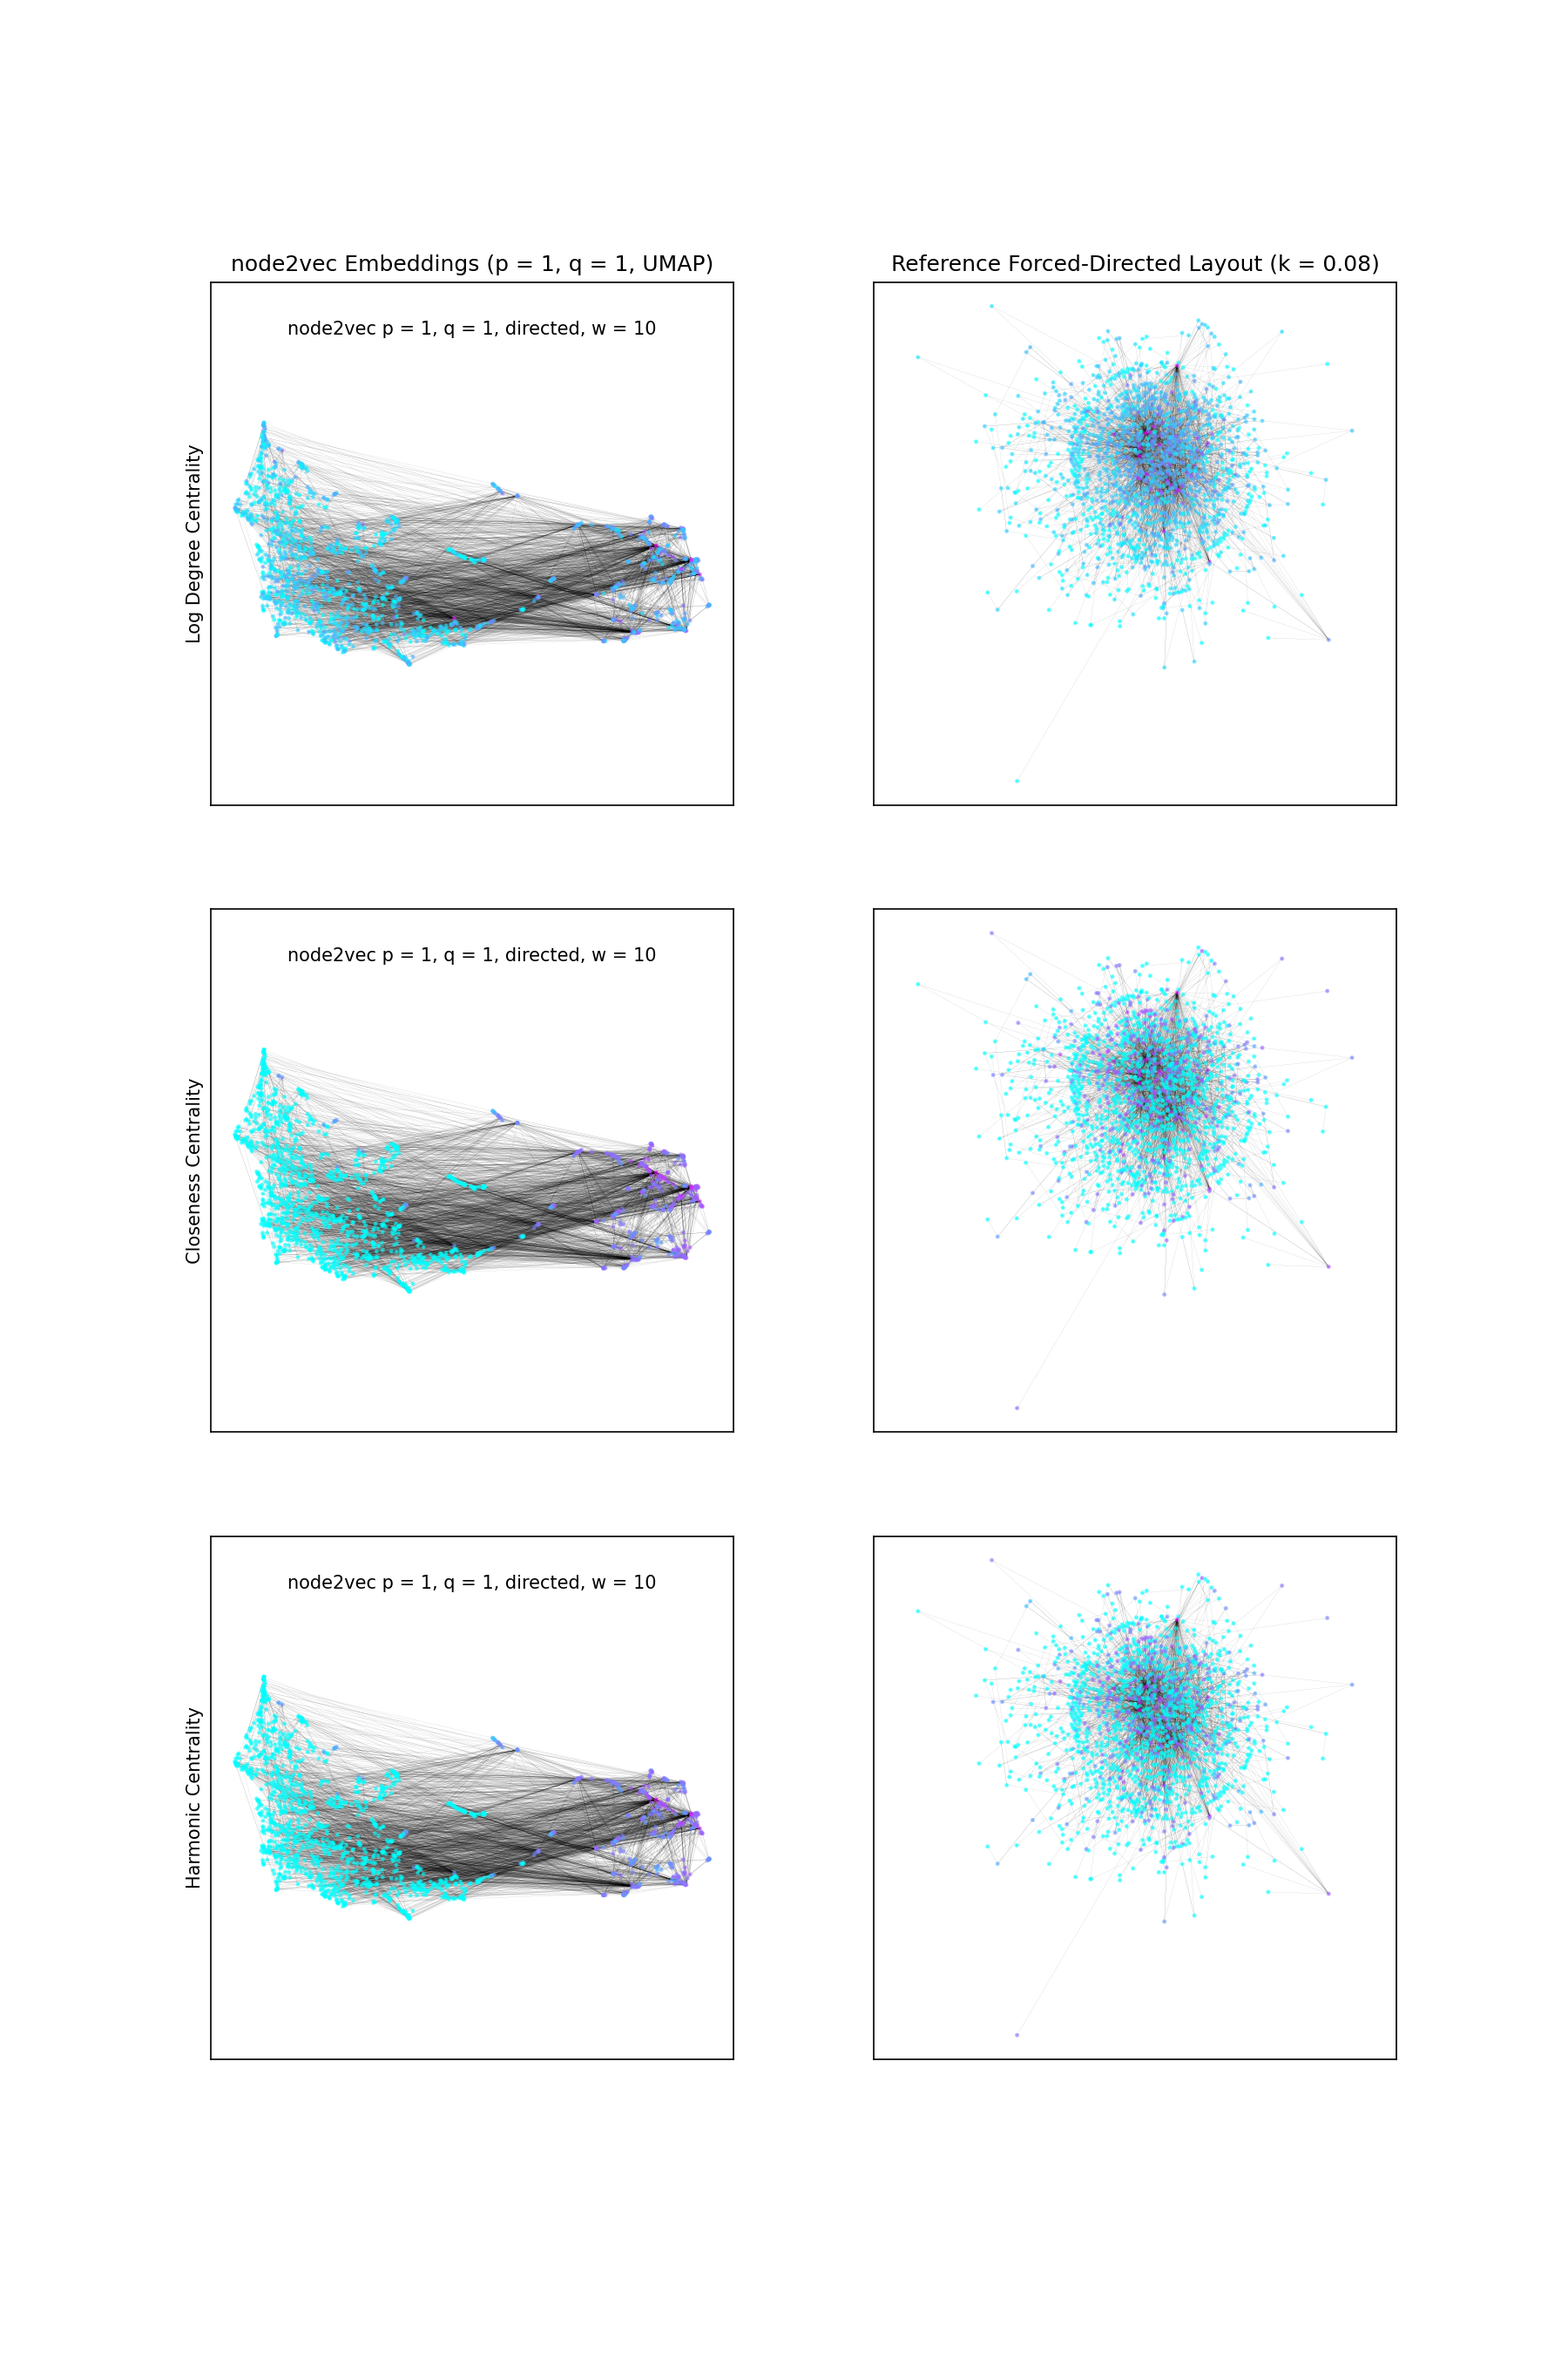
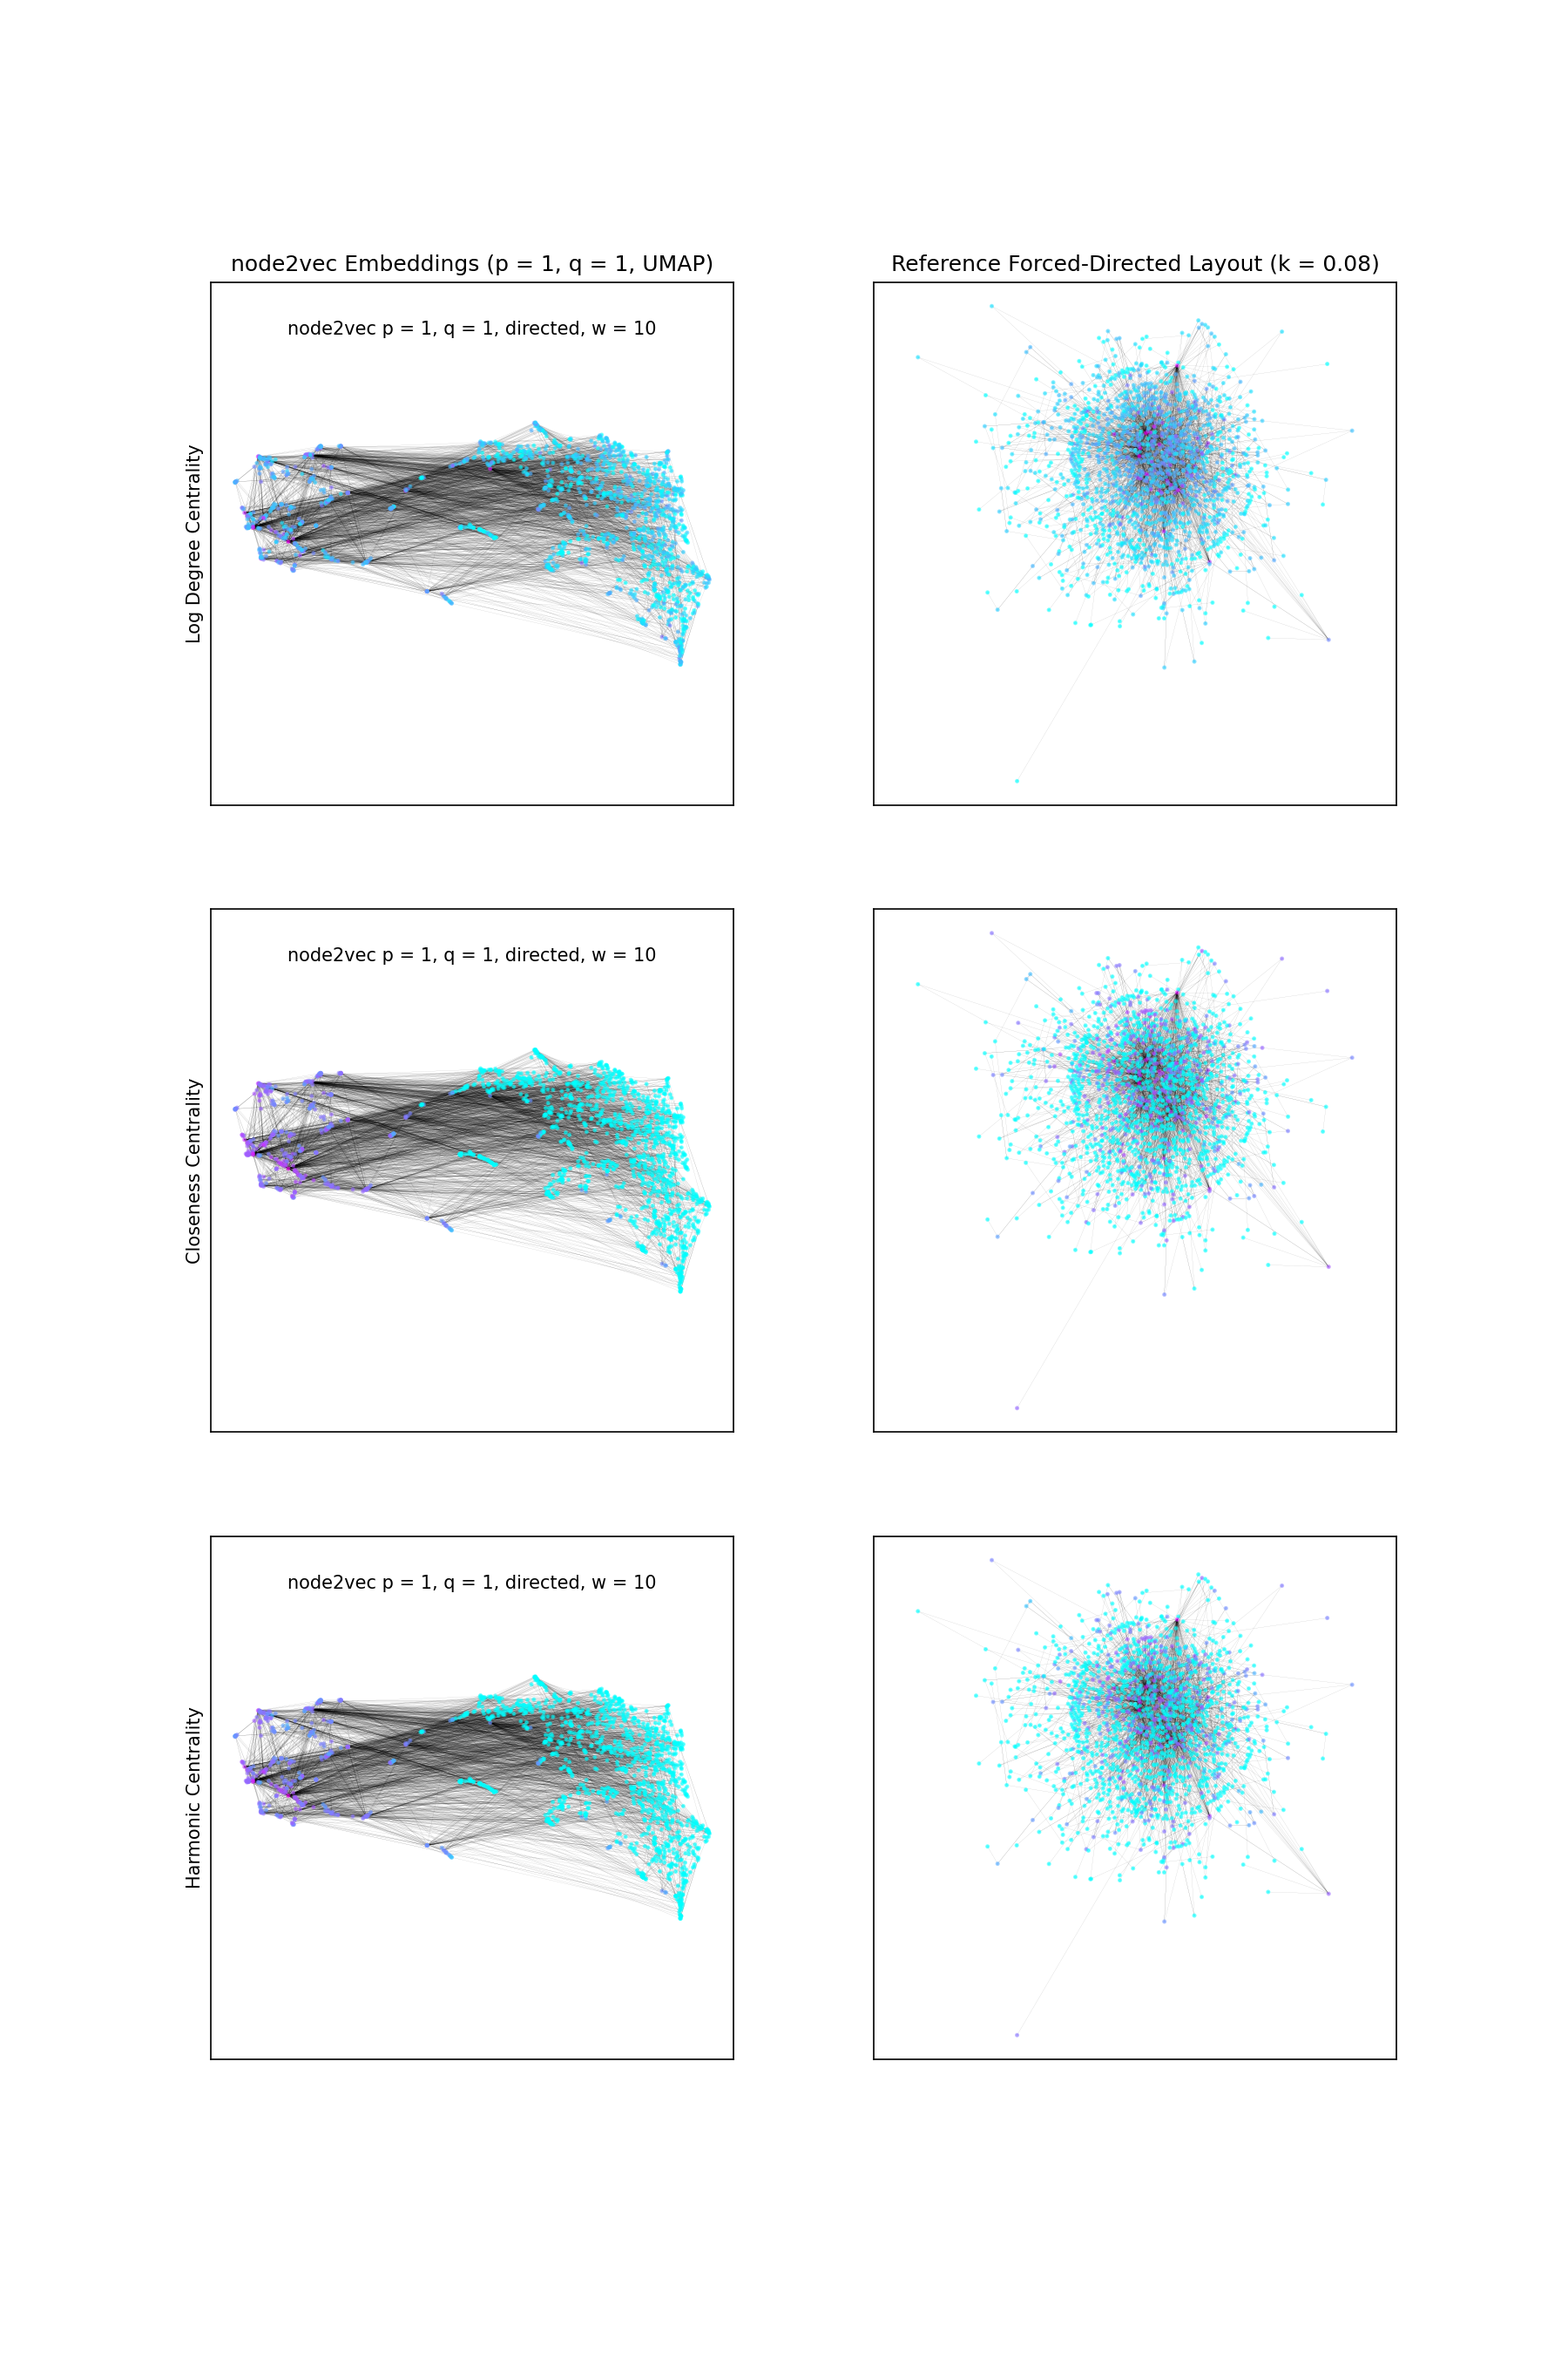
Added p/q = 1e6 case

Changed region(s): [[0.1556, 0.4356, 0.4667, 0.56], [0.1556, 0.7156, 0.4667, 0.8089], [0.1556, 0.1867, 0.4667, 0.28]]

diff --git a/BIO/emmaa_8_v3_clustering.py b/BIO/emmaa_8_v3_clustering.py
@@ -36,24 +36,26 @@ nodes_mitre = emlib.load_jsonl('./dist/v3/nodes_mitre.jsonl', remove_preamble = 
 edges_mitre = emlib.load_jsonl('./dist/v3/edges_mitre.jsonl', remove_preamble = True)
 
 nodeEmb_mitre = []
-nodeEmb_mitre.append(emlib.load_jsonl('./dist/v3/node2vec/G_mitre_p4_q1_n10len80_undirected.jsonl', remove_preamble = False))
-nodeEmb_mitre.append(emlib.load_jsonl('./dist/v3/node2vec/G_mitre_p1_q05_n10len80_undirected.jsonl', remove_preamble = False))
-nodeEmb_mitre.append(emlib.load_jsonl('./dist/v3/node2vec/G_mitre_p1_q1_n10len80_undirected.jsonl', remove_preamble = False))
-nodeEmb_mitre.append(emlib.load_jsonl('./dist/v3/node2vec/G_mitre_p1_q1_n10len80_undirected_w2.jsonl', remove_preamble = False))
+nodeEmb_mitre.append(emlib.load_jsonl('./dist/v3/node2vec/G_mitre_p1000000_q1_n10len80_directed.jsonl', remove_preamble = False))
+# nodeEmb_mitre.append(emlib.load_jsonl('./dist/v3/node2vec/G_mitre_p4_q1_n10len80_undirected.jsonl', remove_preamble = False))
+# nodeEmb_mitre.append(emlib.load_jsonl('./dist/v3/node2vec/G_mitre_p1_q05_n10len80_undirected.jsonl', remove_preamble = False))
+# nodeEmb_mitre.append(emlib.load_jsonl('./dist/v3/node2vec/G_mitre_p1_q1_n10len80_undirected.jsonl', remove_preamble = False))
+# nodeEmb_mitre.append(emlib.load_jsonl('./dist/v3/node2vec/G_mitre_p1_q1_n10len80_undirected_w2.jsonl', remove_preamble = False))
 nodeEmb_mitre.append(emlib.load_jsonl('./dist/v3/node2vec/G_mitre_p1_q1_n10len80_directed.jsonl', remove_preamble = False))
-nodeEmb_mitre.append(emlib.load_jsonl('./dist/v3/node2vec/G_mitre_p1_q2_n10len80_undirected.jsonl', remove_preamble = False))
-nodeEmb_mitre.append(emlib.load_jsonl('./dist/v3/node2vec/G_mitre_p1_q4_n10len80_undirected.jsonl', remove_preamble = False))
+# nodeEmb_mitre.append(emlib.load_jsonl('./dist/v3/node2vec/G_mitre_p1_q2_n10len80_undirected.jsonl', remove_preamble = False))
+# nodeEmb_mitre.append(emlib.load_jsonl('./dist/v3/node2vec/G_mitre_p1_q4_n10len80_undirected.jsonl', remove_preamble = False))
 nodeEmb_mitre.append(emlib.load_jsonl('./dist/v3/node2vec/G_mitre_p1_q1000000_n10len80_directed.jsonl', remove_preamble = False))
 
 
 emb_names = [
-    'node2vec p = 4, q = 1, undirected, w = 10', 
-    'node2vec p = 1, q = 0.5, undirected, w = 10', 
-    'node2vec p = 1, q = 1, undirected, w = 10', 
-    'node2vec p = 1, q = 1, undirected, w = 2', 
+    'node2vec p = 1e6, q = 1, directed, w = 10', 
+    # 'node2vec p = 4, q = 1, undirected, w = 10', 
+    # 'node2vec p = 1, q = 0.5, undirected, w = 10', 
+    # 'node2vec p = 1, q = 1, undirected, w = 10', 
+    # 'node2vec p = 1, q = 1, undirected, w = 2', 
     'node2vec p = 1, q = 1, directed, w = 10', 
-    'node2vec p = 1, q = 2, undirected, w = 10', 
-    'node2vec p = 1, q = 4, undirected, w = 10',
+    # 'node2vec p = 1, q = 2, undirected, w = 10', 
+    # 'node2vec p = 1, q = 4, undirected, w = 10',
     'node2vec p = 1, q = 1e6, directed, w = 10', 
     ]
 
@@ -203,14 +205,15 @@ labels_name = ['Log Degree', 'Closeness', 'Harmonic']
 # %%
 fig, ax = plt.subplots(nrows = len(labels), ncols = 2, figsize = (6 * 2, 6 * len(labels)))
 
-emb = emb_nodes_red[4]
+k = 1
+emb = emb_nodes_red[k]
 for i, (labels_, s) in enumerate(zip(labels, labels_name)):
 
-    __ = emlib.plot_emb(coor = -emb, labels = labels_, cmap_name = 'cool', colorbar = False, marker_size = 2.0, edge_list = edge_list, ax = ax[i, 0], str_title = ' ')
+    __ = emlib.plot_emb(coor = emb, labels = labels_, cmap_name = 'cool', legend_kwargs = {}, colorbar = False, marker_size = 2.0, edge_list = edge_list, ax = ax[i, 0], str_title = ' ')
 
-    __ = emlib.plot_emb(coor = np.array([v for __, v in coors_nx.items()]), labels = labels_, cmap_name = 'cool', colorbar = False, marker_size = 2.0, edge_list = edge_list, ax = ax[i, 1], str_title = ' ')
+    __ = emlib.plot_emb(coor = np.array([v for __, v in coors_nx.items()]), labels = labels_, cmap_name = 'cool', legend_kwargs = {}, colorbar = False, marker_size = 2.0, edge_list = edge_list, ax = ax[i, 1], str_title = ' ')
 
-    __ = ax[i, 0].text(0.5, 0.9, f"{emb_names[4]}", transform = ax[i, 0].transAxes, horizontalAlignment = 'center')
+    __ = ax[i, 0].text(0.5, 0.9, f"{emb_names[k]}", transform = ax[i, 0].transAxes, horizontalAlignment = 'center')
     # __ = ax[i, 0].text(0, 0.5, f"{s} Centrality", transform = ax[i, 0].transAxes, horizontalAlignment = 'center', rotation = 'vertical')
     __ = plt.setp(ax[i, 0], xlabel = '', ylabel = f"{s} Centrality")
     __ = plt.setp(ax[i, 1], xlabel = '', ylabel = '')
@@ -237,16 +240,16 @@ fig, ax = plt.subplots(nrows = num_embs, ncols = 2, figsize = (6 * 2, 6 * num_em
 
 for i, (emb, s) in enumerate(zip(emb_nodes_red, emb_names)):
 
-    if i == 1:
-        __ = emlib.plot_emb(coor = emb, labels = labels[1], cmap_name = 'cool', colorbar = False, marker_size = 2.0, edge_list = edge_list, ax = ax[i, 0], str_title = ' ')
+    if i == 0:
+        __ = emlib.plot_emb(coor = emb, labels = labels[1], cmap_name = 'cool', legend_kwargs = {}, colorbar = False, marker_size = 2.0, edge_list = edge_list, ax = ax[i, 0], str_title = ' ')
 
         # ax[i, 0].add_patch(mpl.patches.Rectangle([-6, -5], 10, 12, fill = False, edgecolor = plt.cm.get_cmap('tab10')(0), zorder = 0))
         # ax[i, 0].add_patch(mpl.patches.Rectangle([6, -5], 5, 12, fill = False, edgecolor = plt.cm.get_cmap('tab10')(1), zorder = 0))
 
     else:
-        __ = emlib.plot_emb(coor = -emb, labels = labels[1], cmap_name = 'cool', colorbar = False, edge_list = edge_list, ax = ax[i, 0], str_title = ' ')
+        __ = emlib.plot_emb(coor = emb, labels = labels[1], cmap_name = 'cool', legend_kwargs = {}, colorbar = False, edge_list = edge_list, ax = ax[i, 0], str_title = ' ')
 
-    __ = emlib.plot_emb(coor = np.array([v for __, v in coors_nx.items()]), labels = labels[1], cmap_name = 'cool', colorbar = False, edge_list = edge_list, ax = ax[i, 1], str_title = ' ')
+    __ = emlib.plot_emb(coor = np.array([v for __, v in coors_nx.items()]), labels = labels[1], cmap_name = 'cool', legend_kwargs = {}, colorbar = False, edge_list = edge_list, ax = ax[i, 1], str_title = ' ')
 
     __ = ax[i, 0].text(0.5, 0.9, f"{s}", transform = ax[i, 0].transAxes, horizontalAlignment = 'center')
     __ = plt.setp(ax[i, 0], xlabel = '', ylabel = '')
@@ -273,7 +276,7 @@ del i, s, fig, ax, emb
 # Generate cluster labels using the (p = 1, q = 4) embeddings
 
 # kwargs = {'metric': 'minkowski', 'p': 2.0 / 3.0, 'min_cluster_size': 2, 'min_samples': 3, 'cluster_selection_epsilon': 0.2}
-kwargs = {'metric': 'euclidean', 'min_cluster_size': 2, 'min_samples': 3, 'cluster_selection_epsilon': 0.5}
+kwargs = {'metric': 'euclidean', 'min_cluster_size': 2, 'min_samples': 3, 'cluster_selection_epsilon': 0.45}
 clusterer = hdbscan.HDBSCAN(**kwargs)
 clusterer.fit(emb_nodes_red[-1])
 labels_ = clusterer.labels_
@@ -297,15 +300,15 @@ fig, ax = plt.subplots(nrows = num_embs, ncols = 2, figsize = (6 * 2, 6 * num_em
 
 for i, (emb, s) in enumerate(zip(emb_nodes_red, emb_names)):
 
-    if i == 1:
-        __ = emlib.plot_emb(coor = emb, labels = labels_, cmap_name = 'qual', colorbar = False, marker_size = 2.0, edge_list = edge_list, ax = ax[i, 0], str_title = ' ')
+    if i == 2:
+        __ = emlib.plot_emb(coor = emb, labels = labels_, cmap_name = 'qual', legend_kwargs = {'loc': 'lower left', 'ncol': 3}, colorbar = False, marker_size = 2.0, edge_list = edge_list, ax = ax[i, 0], str_title = ' ')
 
     else:
-        __ = emlib.plot_emb(coor = -emb, labels = labels_, cmap_name = 'qual', colorbar = False, edge_list = edge_list, ax = ax[i, 0], str_title = ' ')
+        __ = emlib.plot_emb(coor = emb, labels = labels_, cmap_name = 'qual', legend_kwargs = {}, colorbar = False, edge_list = edge_list, ax = ax[i, 0], str_title = ' ')
 
-    __ = emlib.plot_emb(coor = np.array([v for __, v in coors_nx.items()]), labels = labels_, cmap_name = 'qual', colorbar = False, edge_list = edge_list, ax = ax[i, 1], str_title = ' ')
+    __ = emlib.plot_emb(coor = np.array([v for __, v in coors_nx.items()]), labels = labels_, cmap_name = 'qual', legend_kwargs = {}, colorbar = False, edge_list = edge_list, ax = ax[i, 1], str_title = ' ')
 
-    __ = ax[i, 0].text(0.5, 0.9, f"{s}", transform = ax[i, 0].transAxes, horizontalAlignment = 'center')
+    __ = ax[i, 0].text(0.5, 0.95, f"{s}", transform = ax[i, 0].transAxes, horizontalAlignment = 'center')
     __ = plt.setp(ax[i, 0], xlabel = '', ylabel = '')
     __ = plt.setp(ax[i, 1], xlabel = '', ylabel = '')
     ax[i, 0].tick_params(length = 0, labelbottom = False, labelleft = False)
@@ -322,6 +325,30 @@ i = s = fig = ax = emb = None
 del i, s, fig, ax, emb
 
 # %%
+
+fig, ax = plt.subplots(nrows = 1, ncols = 2, figsize = (12, 6))
+
+ax[0].scatter(emb_nodes_red[0][:, 0], labels[1], marker = 'o', s = 20, alpha = 0.15, label = 'p/q = 1e6')
+ax[0].scatter(emb_nodes_red[2][:, 0], labels[1], marker = 'o', s = 20, alpha = 0.15, label = 'p/q = 1e-6')
+__ = plt.setp(ax[0], xlabel = '1st Embedding Dimension', ylabel = 'Closeness Centrality')
+__ = ax[0].legend()
+
+ax[1].scatter(labels_, labels[1], marker = 'o', s = 50, alpha = 0.2)
+__ = plt.setp(ax[1], xlabel = "Cluster Labels, Derived from 'p/q = 1e-6' Case", ylabel = 'Closeness Centrality')
+
+
+fig.savefig('./figures/v3/mitre_subgraph_node2vec_umap_hdbscan_pq_comp.png', dpi = 150)
+
+fig = ax = None
+del fig, ax
+
+
+# %%
+
+
+
+
+
 
 
 
